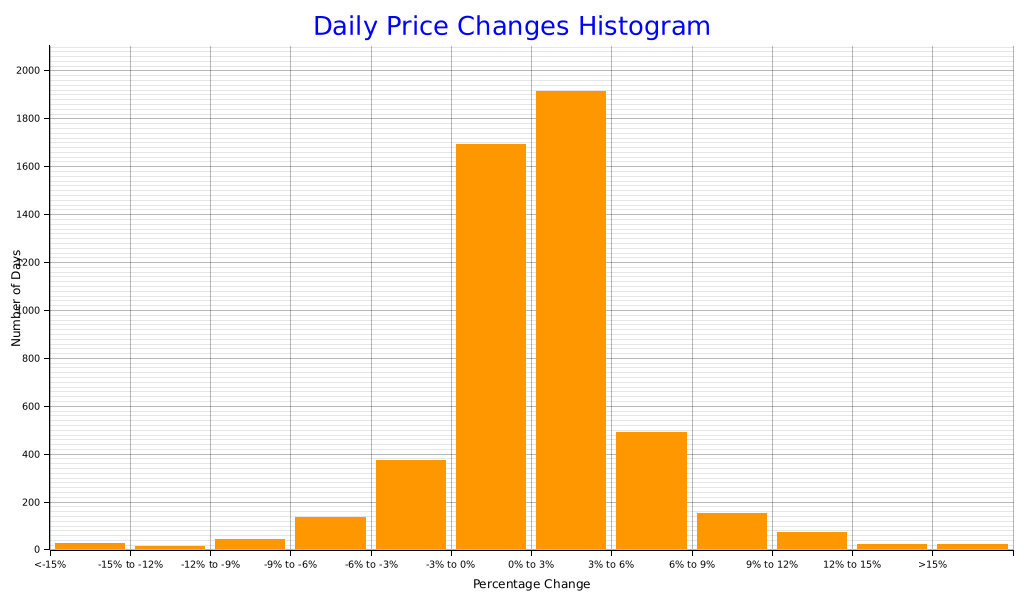
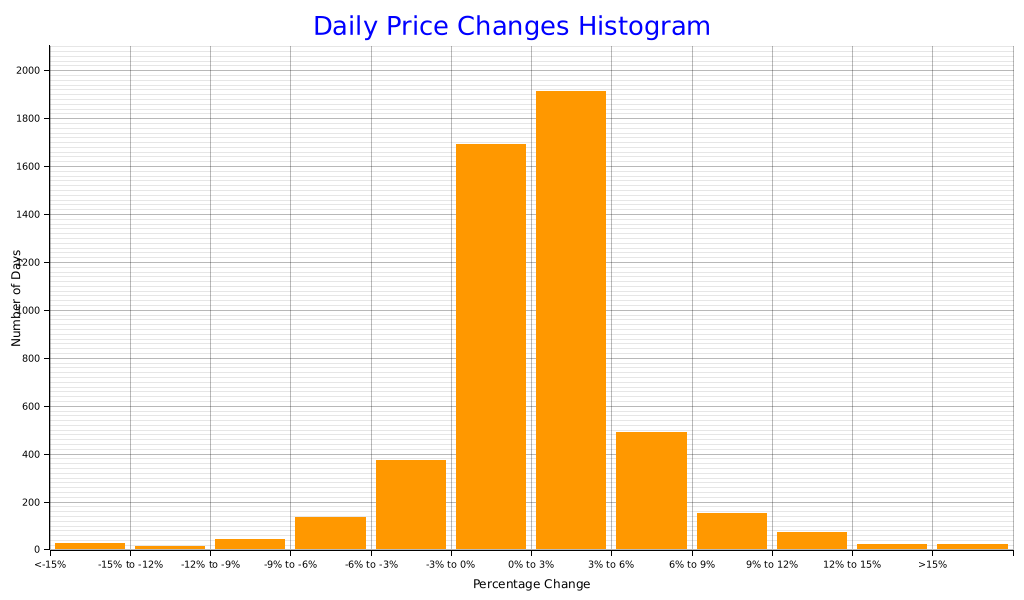
deploy: 5592aec80c010a439ba32a40b85add0a876b63a9

diff --git a/index.html b/index.html
@@ -36,7 +36,7 @@
           <td>111,970.17</td>
           <td>74,436.67</td>
           <td></td>
-          <td>7,811,636,920,320.0</td>
+          <td>7,811,273,064,448.0</td>
         </tr>
         <tr>
           <td>2024</td>
@@ -184,11 +184,11 @@
         </tr>
         <tr>
           <td>-3% to 0%</td>
-          <td>1692</td>
+          <td>1693</td>
         </tr>
         <tr>
           <td>0% to 3%</td>
-          <td>1913</td>
+          <td>1912</td>
         </tr>
         <tr>
           <td>3% to 6%</td>
@@ -241,12 +241,12 @@
             <td>107,372.07</td>
             <td>108,248.32</td>
             <td>107,179.35</td>
-            <td>107,410.79</td>
-            <td class='wma-column'>49,061.41</td>
-            <td>43.19 (0.08 %)</td>
-            <td>60,468.57 (128.8 %)</td>
+            <td>107,351.42</td>
+            <td class='wma-column'>49,061.37</td>
+            <td>43.15 (0.08 %)</td>
+            <td>60,409.21 (128.6 %)</td>
             <td>1,068.96 (0.9 %)</td>
-            <td>49.53 (0.0 %)</td>
+            <td>-9.82 (0.0 %)</td>
           </tr>
           <tr>
             <td>2025-06-25</td>
